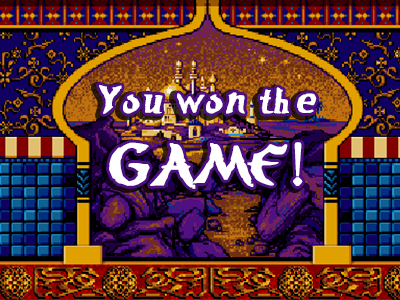
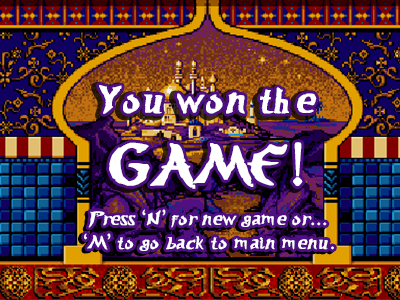
Minor bugfix, game end function, updated static screens.

Changed region(s): [[0.18, 0.69, 0.84, 0.87]]

diff --git a/src/fearlesscode/gui/PlayerDrawer.java b/src/fearlesscode/gui/PlayerDrawer.java
@@ -14,8 +14,11 @@ public class PlayerDrawer implements Drawer
 {
 	public static final int TIME=200;
 
-    private BufferedImage texture;
+    private static BufferedImage[] white = new BufferedImage[12];
+    private static BufferedImage[] red = new BufferedImage[12];
+
     private static long lastMilisec = 0;
+    private static long prevMilisec = 0;
     private static Integer frame = 0;
 
 	/**
@@ -38,20 +41,109 @@ public class PlayerDrawer implements Drawer
 	 */
 	public void draw(Graphics2D g)
 	{
+        String prefix = "images/player_";
+        String type = ".png";
         String color = "white";
-        String imgPath = "images/player_";
-        
-        if(player.getID() == 1){
-            color = "red";
+        Integer frameNumber = 0;
+        Integer imageNumber = 0;
+
+        if(white[0] == null){
+            try {
+                white[frameNumber] = ImageIO.read(getClass().getResourceAsStream(prefix + color + "_left_move_"+ imageNumber.toString() + type));
+                frameNumber++;
+                imageNumber++;
+                white[frameNumber] = ImageIO.read(getClass().getResourceAsStream(prefix + color + "_left_move_"+ imageNumber.toString() + type));
+                frameNumber++;
+                imageNumber++;
+                white[frameNumber] = ImageIO.read(getClass().getResourceAsStream(prefix + color + "_left_move_"+ imageNumber.toString() + type));
+                frameNumber++;
+                imageNumber++;
+                white[frameNumber] = ImageIO.read(getClass().getResourceAsStream(prefix + color + "_left_move_"+ imageNumber.toString() + type));
+                frameNumber++;
+                imageNumber = 0;
+                white[frameNumber] = ImageIO.read(getClass().getResourceAsStream(prefix + color + "_right_move_"+ imageNumber.toString() + type));
+                frameNumber++;
+                imageNumber++;
+                white[frameNumber] = ImageIO.read(getClass().getResourceAsStream(prefix + color + "_right_move_"+ imageNumber.toString() + type));
+                frameNumber++;
+                imageNumber++;
+                white[frameNumber] = ImageIO.read(getClass().getResourceAsStream(prefix + color + "_right_move_"+ imageNumber.toString() + type));
+                frameNumber++;
+                imageNumber++;
+                white[frameNumber] = ImageIO.read(getClass().getResourceAsStream(prefix + color + "_right_move_"+ imageNumber.toString() + type));
+                frameNumber++;
+                white[frameNumber] = ImageIO.read(getClass().getResourceAsStream(prefix + color + "_left" + type));
+                frameNumber++;
+                white[frameNumber] = ImageIO.read(getClass().getResourceAsStream(prefix + color + "_right" + type));
+                frameNumber++;
+                white[frameNumber] = ImageIO.read(getClass().getResourceAsStream(prefix + color + "_fall_left" + type));
+                frameNumber++;
+                white[frameNumber] = ImageIO.read(getClass().getResourceAsStream(prefix + color + "_fall_right" + type));
+                frameNumber++;
+
+            } catch (IOException e) {
+                e.printStackTrace();  //To change body of catch statement use File | Settings | File Templates.
+            }
         }
 
-        imgPath = imgPath + color + "_";
+        frameNumber = 0;
+        imageNumber = 0;
 
-        String direction = "left";
+        if(red[0] == null){
+            color = "red";
+            try {
+                red[frameNumber] = ImageIO.read(getClass().getResourceAsStream(prefix + color + "_left_move_"+ imageNumber.toString() + type));
+                frameNumber++;
+                imageNumber++;
+                red[frameNumber] = ImageIO.read(getClass().getResourceAsStream(prefix + color + "_left_move_"+ imageNumber.toString() + type));
+                frameNumber++;
+                imageNumber++;
+                red[frameNumber] = ImageIO.read(getClass().getResourceAsStream(prefix + color + "_left_move_"+ imageNumber.toString() + type));
+                frameNumber++;
+                imageNumber++;
+                red[frameNumber] = ImageIO.read(getClass().getResourceAsStream(prefix + color + "_left_move_"+ imageNumber.toString() + type));
+                frameNumber++;
+                imageNumber = 0;
+                red[frameNumber] = ImageIO.read(getClass().getResourceAsStream(prefix + color + "_right_move_"+ imageNumber.toString() + type));
+                frameNumber++;
+                imageNumber++;
+                red[frameNumber] = ImageIO.read(getClass().getResourceAsStream(prefix + color + "_right_move_"+ imageNumber.toString() + type));
+                frameNumber++;
+                imageNumber++;
+                red[frameNumber] = ImageIO.read(getClass().getResourceAsStream(prefix + color + "_right_move_"+ imageNumber.toString() + type));
+                frameNumber++;
+                imageNumber++;
+                red[frameNumber] = ImageIO.read(getClass().getResourceAsStream(prefix + color + "_right_move_"+ imageNumber.toString() + type));
+                frameNumber++;
+                red[frameNumber] = ImageIO.read(getClass().getResourceAsStream(prefix + color + "_left" + type));
+                frameNumber++;
+                red[frameNumber] = ImageIO.read(getClass().getResourceAsStream(prefix + color + "_right" + type));
+                frameNumber++;
+                red[frameNumber] = ImageIO.read(getClass().getResourceAsStream(prefix + color + "_fall_left" + type));
+                frameNumber++;
+                // 9
+                red[frameNumber] = ImageIO.read(getClass().getResourceAsStream(prefix + color + "_fall_right" + type));
+                frameNumber++;
+
+            } catch (IOException e) {
+                e.printStackTrace();  //To change body of catch statement use File | Settings | File Templates.
+            }
+        }
+
+        Integer direction = 0;
+
+        BufferedImage texture;
 
         if(lastMilisec == 0){
             lastMilisec = System.currentTimeMillis();
         }
+
+        System.out.print(player.getID());
+        System.out.println(" : ");
+        System.out.print(System.currentTimeMillis() - prevMilisec);
+        System.out.println("\n");
+
+        prevMilisec = System.currentTimeMillis();
 
         if((System.currentTimeMillis() - lastMilisec) > TIME){
             lastMilisec = System.currentTimeMillis();
@@ -59,24 +151,25 @@ public class PlayerDrawer implements Drawer
         }
 
         if(player.getSpeed().getX() > 0){
-            direction = "right";
+            direction = 1;
         }
         
         if(player.getSpeed().getY() != 0){
-            imgPath = imgPath + "fall_" + direction + ".png";
+            frameNumber = 10 + direction;
+
         } else {
             if(player.getSpeed().getX() == 0){
-                imgPath = imgPath + direction +".png";
+                frameNumber = 8 + direction;
             } else {
-                imgPath = imgPath + direction + "_move_" + frame.toString() + ".png";
+                frameNumber = frame + (4*direction);
             }
         }
 
-        try {
-            texture = ImageIO.read(getClass().getResourceAsStream(imgPath));
+        if(player.getID() == 1){
+            texture = red[frameNumber];
 
-        } catch (IOException e) {
-            e.printStackTrace();  //To change body of catch statement use File | Settings | File Templates.
+        } else {
+            texture = white[frameNumber];
         }
 
         g.drawImage(texture, null, 0, 0);

diff --git a/src/fearlesscode/app/Grafikus.java b/src/fearlesscode/app/Grafikus.java
@@ -202,17 +202,14 @@ public class Grafikus
 			clock.cancel();
 		}
 		clock=new Timer();
-		clock.schedule(new TimerTask()
-		{
-			public void run()
-			{
-				if(!game.getPlayField().isBlockMode())
-				{
-					game.getPlayField().tick();
-				}
-				gameFrame.repaint();
-			}
-		},0,(long)(1000/30));
+		clock.schedule(new TimerTask() {
+            public void run() {
+                if (!game.getPlayField().isBlockMode()) {
+                    game.getPlayField().tick();
+                }
+                gameFrame.repaint();
+            }
+        }, 0, (long) (1000 / 30));
 		resize(
 			BlockContainerDrawer.WIDTH*playField.getWidth()+30,
 			BlockContainerDrawer.HEIGHT*playField.getHeight()+50);
@@ -301,17 +298,22 @@ public class Grafikus
 	 */
 	public void loadNextLevel()
 	{
-		showStaticScreen();
-		gameFrame.setDrawer(new StaticScreen("level_won"));
-		gameFrame.addKeyListener(new KeyAdapter()
-		{
-			public void keyPressed(KeyEvent e)
-			{
-                if(e.getKeyCode() == KeyEvent.VK_N){
-                    playNext();
+        if (level == 7){
+            endGame();
+
+        } else {
+            showStaticScreen();
+            gameFrame.setDrawer(new StaticScreen("level_won"));
+            gameFrame.addKeyListener(new KeyAdapter()
+            {
+                public void keyPressed(KeyEvent e)
+                {
+                    if(e.getKeyCode() == KeyEvent.VK_N){
+                        playNext();
+                    }
                 }
-			}
-		});
+            });
+        }
 	}
 
 	/**
@@ -325,7 +327,19 @@ public class Grafikus
         {
             public void keyPressed(KeyEvent e)
             {
-                loadMainMenu();
+                switch (e.getKeyCode()){
+                    case KeyEvent.VK_N:
+                        try {
+                            play(0);
+                        } catch (Exception e1) {
+                            e1.printStackTrace();  //To change body of catch statement use File | Settings | File Templates.
+                        }
+                        break;
+
+                    case  KeyEvent.VK_M:
+                        loadMainMenu();
+                        break;
+                }
             }
         });
 	}

diff --git a/src/fearlesscode/gui/MenuDrawer.java b/src/fearlesscode/gui/MenuDrawer.java
@@ -39,8 +39,6 @@ public class MenuDrawer implements Drawer
         BufferedImage texture = null;
         String imgPath = "images/menu_bg.png";
 
-        System.out.println(imgPath);
-
         try {
             texture = ImageIO.read(getClass().getResourceAsStream(imgPath));
         } catch (IOException e) {

diff --git a/src/fearlesscode/menu/Menu.java b/src/fearlesscode/menu/Menu.java
@@ -81,7 +81,7 @@ public class Menu
 	 */
 	public void setActive(int n)
 	{
-		if(n<0 || n>items.size())
+		if(n<0 || n>=items.size())
 		{
 			return;
 		}
